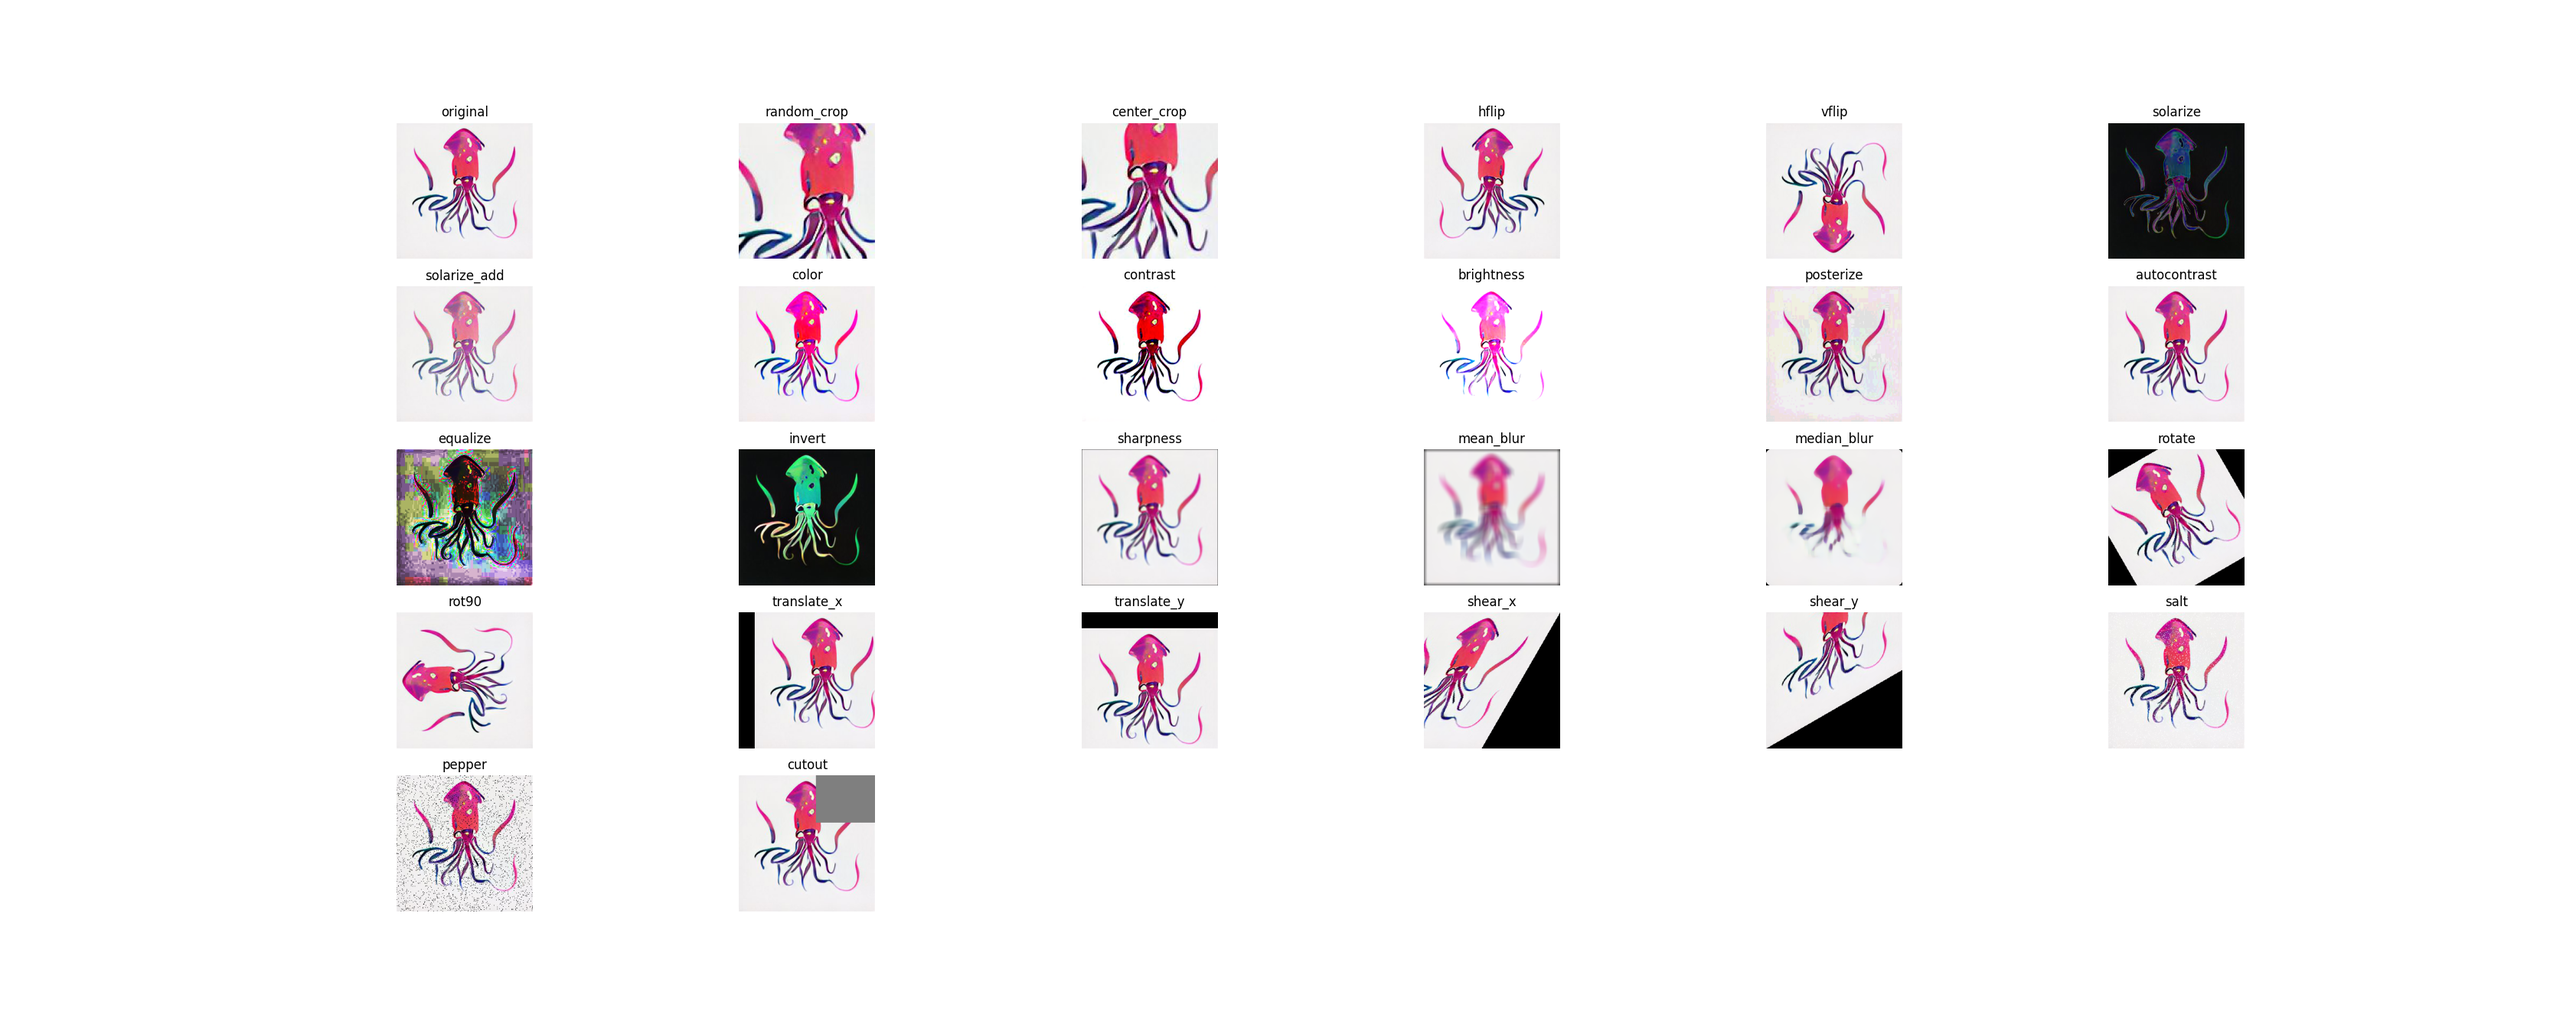
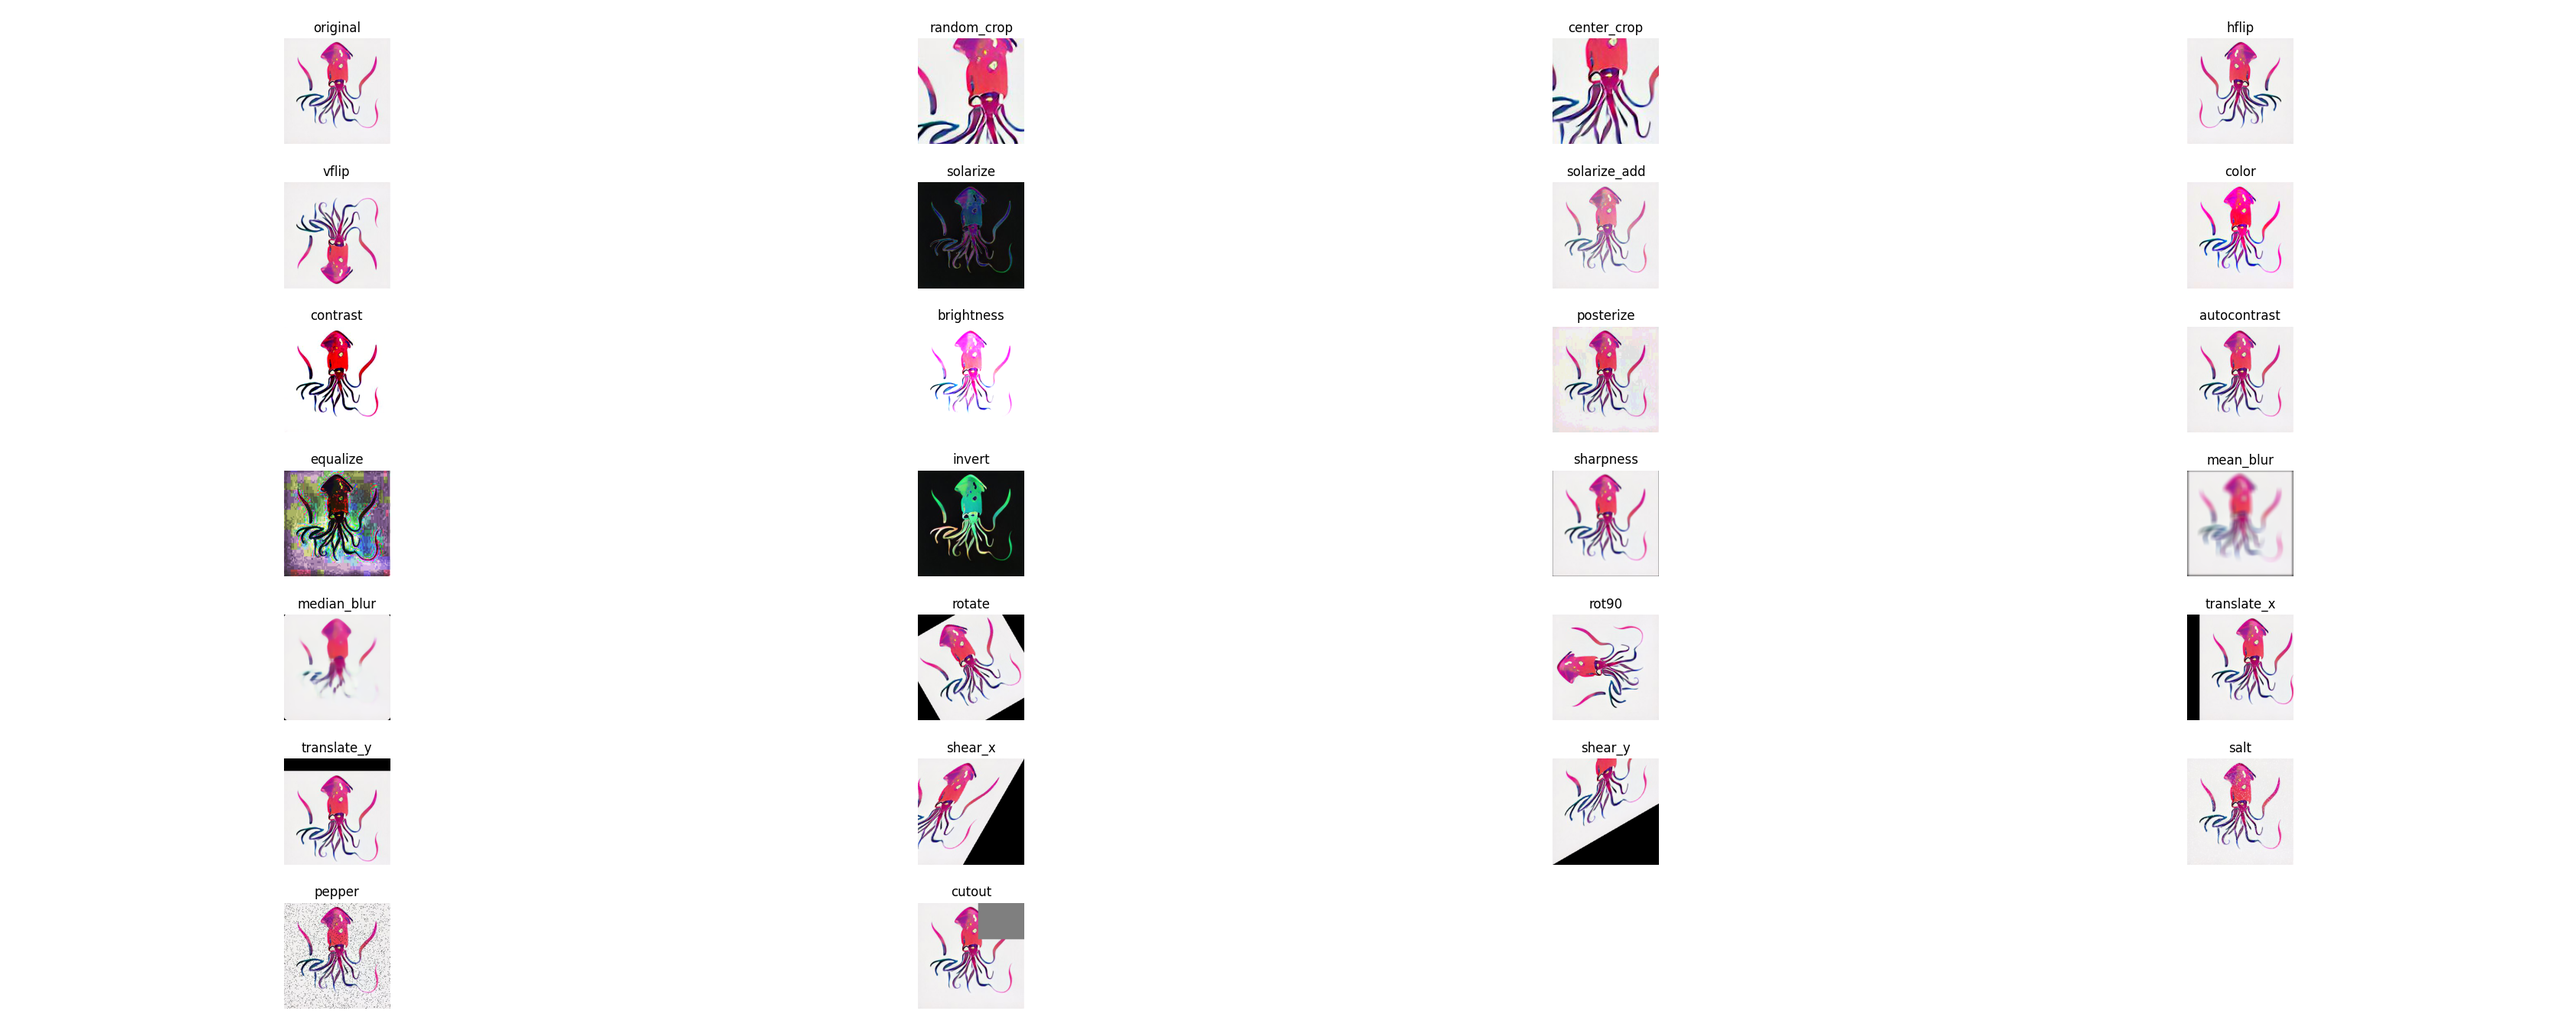
update

diff --git a/examples/transform_and_show.py b/examples/transform_and_show.py
@@ -57,8 +57,8 @@ figs["cutout"] = T.cutout(rng, img, 112)
 
 
 # Draw.
-row = 5
-col = 6
+row = 7
+col = 4
 plt.figure(figsize=(10, 10))
 assert row * col >= len(figs)
 
@@ -68,6 +68,7 @@ for i, key in enumerate(figs):
     plt.title(key)
     plt.axis("off")
 
+plt.tight_layout()
 plt.show()
 
 
